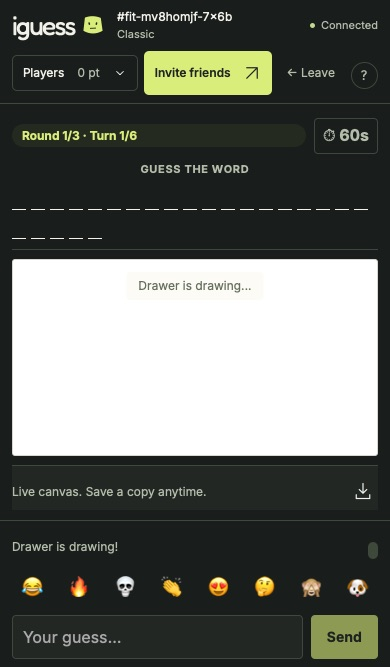
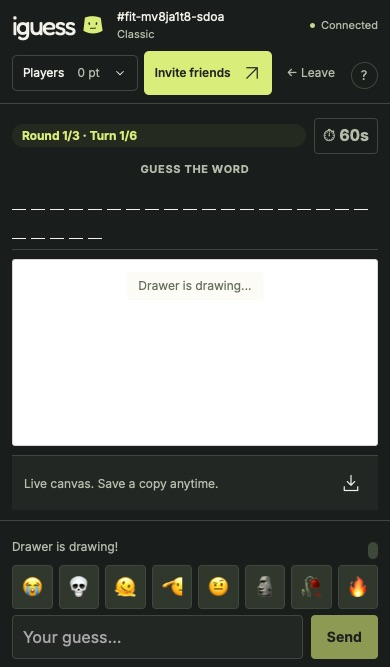
fix: give the canvas toolbar breathing room

diff --git a/packages/client/src/game.css b/packages/client/src/game.css
@@ -470,6 +470,7 @@
 }
 .draw-toolbar[data-editable="false"] {
   grid-template-columns: 1fr auto;
+  padding: 10px 16px;
 }
 .canvas-wrap {
   order: 1;
@@ -1067,6 +1068,7 @@
   }
   .draw-toolbar[data-editable="false"] {
     grid-template-columns: minmax(0, 1fr) auto;
+    padding: 8px 12px;
   }
   .draw-toolbar[data-editable="false"] .viewer-note {
     grid-column: 1;

diff --git a/docs/ui-review/room-fit/README.md b/docs/ui-review/room-fit/README.md
@@ -9,6 +9,7 @@ Mobile play keeps short words beside the round and timer; longer words get the f
 Letter spacing stays readable without padded desktop-sized tiles. The viewer's Save action
 uses one row. Short lobbies condense their introduction, and landscape word choices use
 columns. Functional game settings and actions remain available.
+The viewer toolbar has inset padding around its note and Save action at both sizes.
 
 While the simulated phone keyboard is open, the word, timer, live drawing and composer take
 priority. The toolbar and secondary round labels return when the keyboard closes. Message
